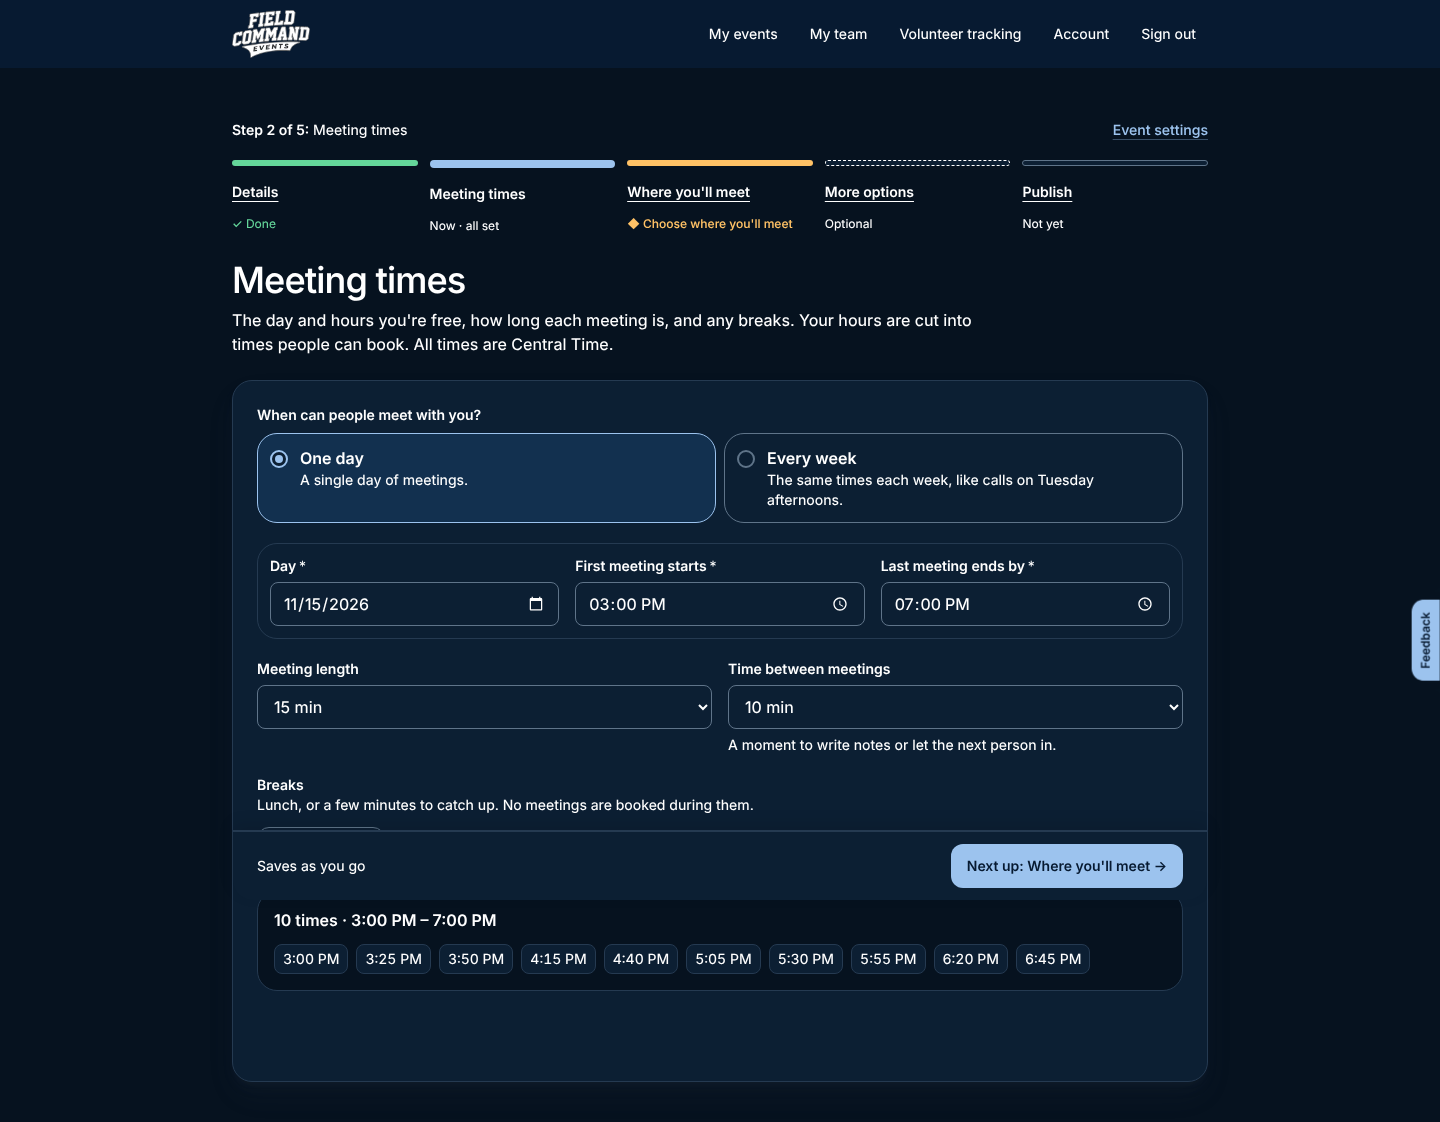
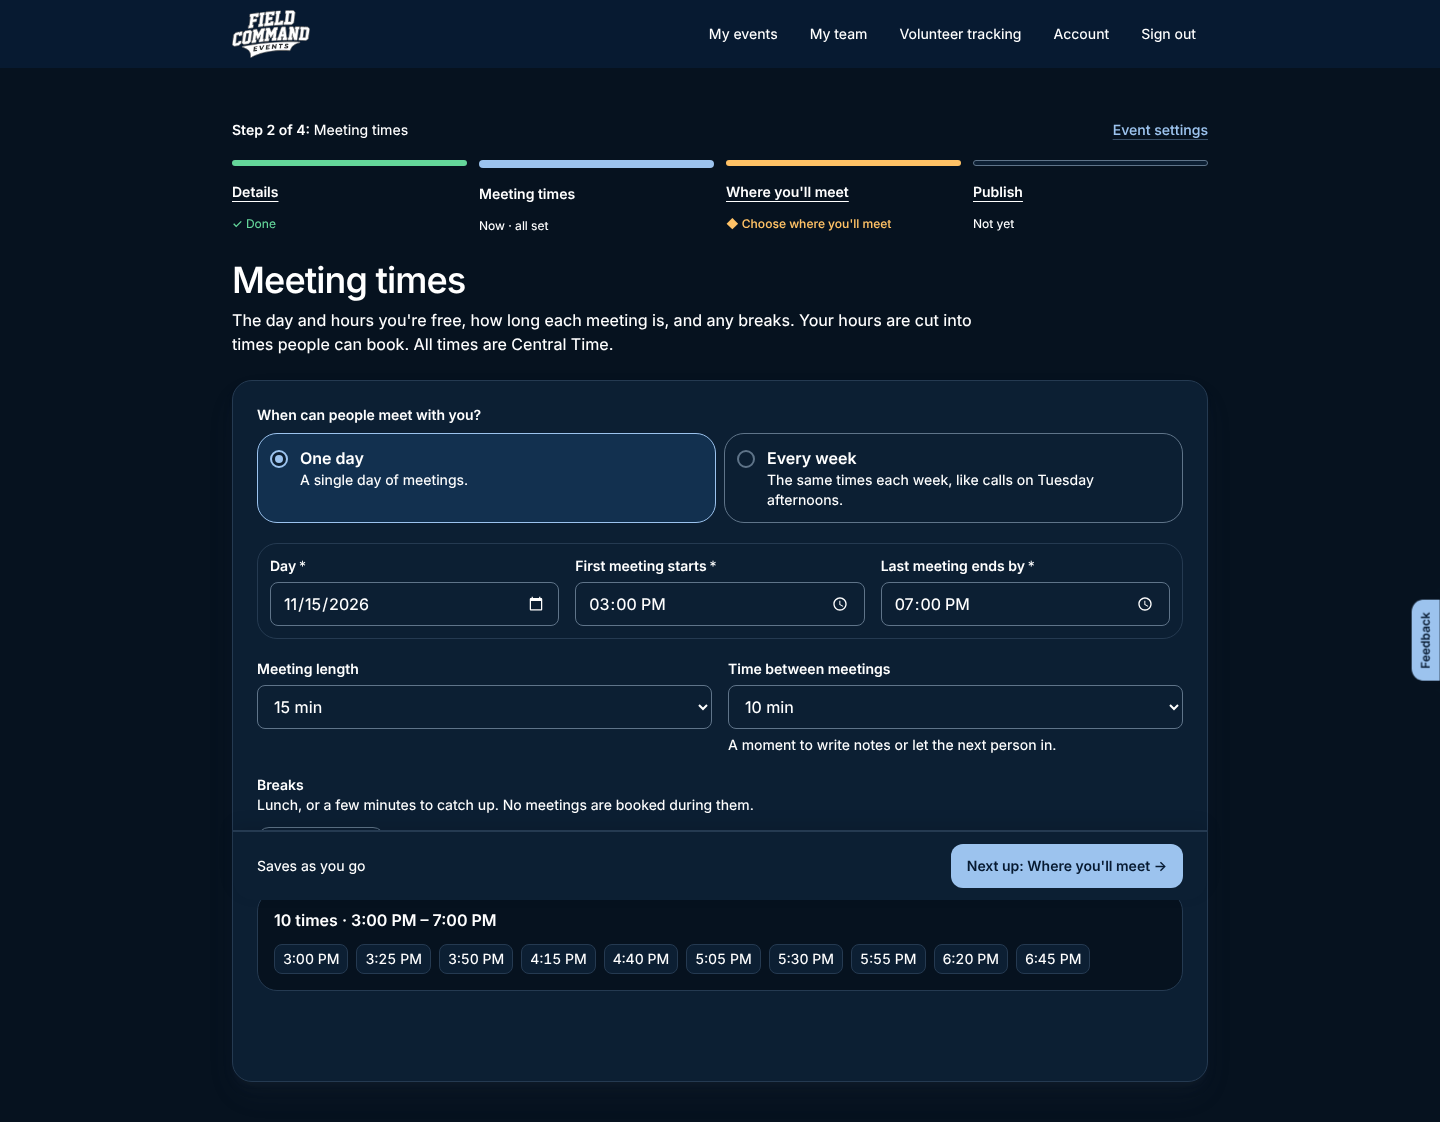
Meetings: the light check on the move, as the owner decided
- Weekly hours: the bar and step bar name exactly what's missing; blank dates say they're needed; the note gets its own line on phones
- One-day meetings: four steps, with the optional contact email on Publish; weekly hours keep More options
- A pointer from weekly times to days off; "school vacations" for days off; no empty status line at the bottom of cards
- Decisions logged; the setup pattern says a one-setting optional step goes on Publish

Claude-Session: https://claude.ai/code/session_015NaEPpF7tacknYvkWK5f8d

diff --git a/src/app/dashboard/events/[eventId]/conferences/conference-forms.tsx b/src/app/dashboard/events/[eventId]/conferences/conference-forms.tsx
@@ -299,6 +299,14 @@ function TimesForm({
   const short = openLeft !== null && openLeft < outside.length;
   const [choice, setChoice] = useState<"email" | "self" | null>(null);
   const picked = choice ?? (short ? "self" : "email");
+  // What's still missing before the times can save, named exactly (light check, 2026-11-09).
+  const missing = weekly
+    ? [!firstDay || !lastDay ? "your first and last day" : null, !groups.some((g) => g.days.length) ? "the days you meet" : null, groups.some((g) => !g.start || !g.end) ? "your hours" : null]
+    : [!day ? "your day" : null, !from || !to ? "your hours" : null];
+  const missingList = missing.filter((m): m is string => Boolean(m));
+  const missingNote = missingList.length
+    ? `Add ${missingList.length < 3 ? missingList.join(" and ") : `${missingList.slice(0, -1).join(", ")}, and ${missingList.at(-1)}`}`
+    : null;
   const changeGroup = (key: number, patch: Partial<GroupDraft>) => setGroups((gs) => gs.map((g) => (g.key === key ? { ...g, ...patch } : g)));
   const change = (key: number, patch: Partial<BreakDraft>) => setBreaks((bs) => bs.map((b) => (b.key === key ? { ...b, ...patch } : b)));
 
@@ -408,10 +416,11 @@ function TimesForm({
       ) : weekly ? (
         <div className="space-y-4">
           <div className="grid gap-4 sm:grid-cols-2">
-            <Field label="First day">
+            {/* Not red before anyone's had a go, but say these are what's holding up the save (light check, 2026-11-09). */}
+            <Field label="First day" hint={autosave && !firstDay ? "Needed before your times save." : undefined}>
               <Input type="date" name="weeklyFrom" required value={firstDay} onChange={(e) => setFirstDay(e.target.value)} />
             </Field>
-            <Field label="Last day" hint="For example, the last day of the semester.">
+            <Field label="Last day" hint={autosave && !lastDay ? "Needed before your times save. For example, the last day of the semester." : "For example, the last day of the semester."}>
               <Input type="date" name="weeklyTo" required min={firstDay} value={lastDay} onChange={(e) => setLastDay(e.target.value)} />
             </Field>
           </div>
@@ -613,6 +622,16 @@ function TimesForm({
       </div>
       )}
 
+      {/* Weekly hours in the setup steps: holidays and the booking window are a step away, so nobody forgets them. */}
+      {part === "basics" && weekly && (
+        <p className="text-sm text-muted">
+          Days off and how far ahead people book are in{" "}
+          <a href="options" className="font-medium text-brand underline underline-offset-4">
+            More options
+          </a>
+          .
+        </p>
+      )}
       {/* The times people can book: shown with the hours on Meeting times, not repeated in More options. */}
       {basics && (
       <div className="rounded-lg border border-border bg-background p-4">
@@ -704,7 +723,7 @@ function TimesForm({
         </div>
       )}
       {autosave ? (
-        <AutosaveBar status={auto.status} retry={auto.retry} next={autosave.next} todo={fresh && basics ? "Add your day and hours" : null} />
+        <AutosaveBar status={auto.status} retry={auto.retry} next={autosave.next} todo={fresh && basics ? missingNote : null} />
       ) : (
         <SaveCancel
           editing={editing}
@@ -1145,7 +1164,8 @@ function WaitingRoomGuide({ hours, meeting }: { hours: string; meeting?: boolean
 /** A small status line for a card that saves itself, inside a page whose bar is elsewhere. */
 function AutosaveStatus({ status, retry }: { status: ReturnType<typeof useAutosaveForm>["status"]; retry: () => void }) {
   return (
-    <p className="min-h-6 text-sm" role="status">
+    // An empty line takes no room: the card ends with its last field until there's something to say.
+    <p className="text-sm empty:hidden" role="status">
       {status.kind === "failed" ? (
         <span className="font-semibold text-danger">
           <span aria-hidden>▲ </span>Not saved. {status.error}{" "}

diff --git a/src/app/dashboard/events/[eventId]/page.tsx b/src/app/dashboard/events/[eventId]/page.tsx
@@ -45,6 +45,8 @@ import { bandRegistrationMissing, publishEffects, setupChecklist, twoWeeksBefore
 import { volunteerTotals } from "@/lib/volunteer-totals";
 import { opensLater, registrationIsOpen } from "@/lib/bands";
 import { SetupGuide } from "@/components/setup-guide";
+import { MeetingContactForm } from "./conferences/conference-forms";
+import { saveMeetingContact } from "./conferences/actions";
 import { DayRail } from "@/components/event-day-nav";
 import { loadDayActions } from "@/lib/event-day-actions";
 import { SavedBy } from "@/components/saved-by";
@@ -981,7 +983,13 @@ export default async function EventPage({ params, searchParams }: PageProps<"/da
     ) : null;
 
   // Before publishing: what publishing does, and the button. (Once live, unpublishing is in event settings.)
-  const publish = setup && checklist && !published ? <PublishPanel facts={setup} remaining={checklist.remaining} previewHref={conferenceHere ? `/e/${event.slug}/book` : `/e/${event.slug}/volunteer`} /> : null;
+  const publish = setup && checklist && !published ? <PublishPanel
+        facts={setup}
+        remaining={checklist.remaining}
+        previewHref={conferenceHere ? `/e/${event.slug}/book` : `/e/${event.slug}/volunteer`}
+        // A one-day meetings event's optional contact email lives here (it has no More options step: owner, 2026-11-09).
+        contact={conferenceHere && access.isHost && conference?.schedule !== "weekly" ? { initial: conference?.contact_email ?? null } : undefined}
+      /> : null;
 
   // Still setting up: the one thing to do next, in the main column too.
   const nextUpStep = checklist && !published ? (checklist.inProgress ?? checklist.next) : null;
@@ -1203,11 +1211,14 @@ function PublishPanel({
   facts,
   remaining,
   previewHref,
+  contact,
 }: {
   facts: SetupFacts;
   remaining: ReturnType<typeof setupChecklist>["remaining"];
   /** A volunteer event's sign-up page, as the team previews it. */
   previewHref: string;
+  /** A one-day meetings event: its optional contact email for when every time is booked. */
+  contact?: { initial: string | null };
 }) {
   // The empty jobs are named in their own box below, so the "one more step" line skips them.
   const others = (facts.emptyJobs ?? []).length ? remaining.filter((r) => r.id !== "shifts") : remaining;
@@ -1302,6 +1313,13 @@ function PublishPanel({
         <p className="mt-2 flex items-center gap-2 text-sm font-medium text-success">
           <span aria-hidden>✓</span> Everything your event needs is set up.
         </p>
+      )}
+      {contact && (
+        <div className="mt-4 border-t border-border pt-4">
+          <p className="text-sm font-semibold">When every time is booked (optional)</p>
+          <p className="mt-1 mb-3 text-sm text-muted">What people see if they open your link and nothing is left.</p>
+          <MeetingContactForm action={saveMeetingContact.bind(null, facts.eventId)} initial={contact.initial} autosave />
+        </div>
       )}
       <p className="mt-4 text-sm font-semibold">When you publish:</p>
       <ul className="mt-2 space-y-1.5 text-sm text-muted">

diff --git a/src/app/dashboard/events/[eventId]/conferences/options/page.tsx b/src/app/dashboard/events/[eventId]/conferences/options/page.tsx
@@ -20,6 +20,8 @@ export default async function MeetingOptionsStep({ params }: PageProps<"/dashboa
   const s = await loadMeetingSetup(eventId);
   // Published, or unpublished with people still booked: changes wait for Save, on Meeting setup.
   if (s.published || s.booked > 0) redirect(`${s.base}?tab=times`);
+  // One day: no More options step; its contact email is on Publish (owner, 2026-11-09).
+  if (!s.weekly) redirect(`/dashboard/events/${eventId}#publish`);
   const publishHref = `/dashboard/events/${eventId}#publish`;
   return (
     <StepPage
@@ -42,14 +44,12 @@ export default async function MeetingOptionsStep({ params }: PageProps<"/dashboa
           action={saveMeetingContact.bind(null, eventId)}
           initial={s.settings.contact_email ?? null}
           autosave
-          // One day: this is the step's only form, so it carries the step's bar (weekly hours have theirs below).
-          next={s.weekly ? undefined : { href: publishHref, label: "Next up: Publish" }}
         />
       </Card>
       {s.weekly && (
         <Card>
           <h2 className="text-lg font-semibold">Days off</h2>
-          <p className="mt-1 mb-4 text-sm text-muted">Holidays, trips, or a break. No meetings are booked on them. Leave Through blank for a single day.</p>
+          <p className="mt-1 mb-4 text-sm text-muted">Holidays, trips, or school vacations. No meetings are booked on them. Leave Through blank for a single day.</p>
           <DaysOffForm action={saveDaysOff.bind(null, eventId)} closedDates={s.settings.closed_dates} meeting={s.meeting} autosave />
         </Card>
       )}

diff --git a/src/components/autosave.tsx b/src/components/autosave.tsx
@@ -84,7 +84,8 @@ export function AutosaveBar({
 }) {
   return (
     <div className="sticky bottom-[var(--day-bar,0px)] z-10 -mx-4 -mb-4 flex min-h-16 flex-wrap items-center gap-x-3 gap-y-2 rounded-b-lg border-t-2 border-border bg-surface px-4 py-3 shadow-[0_-6px_16px_rgb(0_0_0/0.10)] sm:-mx-6 sm:-mb-6 sm:px-6">
-      <div className="min-w-0 flex-1 text-sm" role="status">
+      {/* A long "not saved yet" note takes its own line on phones, above the button, instead of a narrow column. */}
+      <div className={`min-w-0 flex-1 text-sm ${todo || status.kind === "incomplete" ? "basis-full sm:basis-auto" : ""}`} role="status">
         {status.kind === "failed" ? (
           <p className="flex flex-wrap items-center gap-x-2 font-semibold text-danger">
             <span>
@@ -121,7 +122,7 @@ export function AutosaveBar({
       {next && (
         <Link
           href={next.href}
-          className={`inline-flex min-h-11 items-center rounded-md px-4 text-sm font-semibold ${
+          className={`ml-auto inline-flex min-h-11 items-center rounded-md px-4 text-sm font-semibold ${
             todo && status.kind !== "saved" ? "border border-field-border bg-surface hover:bg-background" : "bg-brand text-brand-foreground hover:bg-brand-hover"
           }`}
         >

diff --git a/src/lib/setup-facts.ts b/src/lib/setup-facts.ts
@@ -88,6 +88,7 @@ export async function loadSetupFacts(eventId: string): Promise<SetupFacts | null
     rooms,
     scheduleSlots,
     conferenceTimesSaved: Boolean(conference?.times_saved_at),
+    conferenceWeekly: conference?.schedule === "weekly",
     booths,
     parentRegistrationOpen: event.parent_registration_open,
     parentClosesAt: Boolean(event.parent_registration_closes_at),
@@ -95,7 +96,9 @@ export async function loadSetupFacts(eventId: string): Promise<SetupFacts | null
     // The setup steps split it: what Meeting times and Where you'll meet each still need.
     conferenceTimesMissing: conferenceHere
       ? !conference?.times_saved_at
-        ? "Add your hours"
+        ? conference?.schedule === "weekly"
+          ? "Add your weekly hours and dates"
+          : "Add your day and hours"
         : conference.schedule === "weekly" && !conference.weekly_hours.length
           ? "Add your weekly hours"
           : null

diff --git a/src/app/dashboard/events/[eventId]/conferences/place/page.tsx b/src/app/dashboard/events/[eventId]/conferences/place/page.tsx
@@ -32,7 +32,12 @@ export default async function MeetingPlaceStep({ params }: PageProps<"/dashboard
           meeting={s.meeting}
           lastRoom={s.settings.room ? null : await lastRoom(s.supabase, s.event.organization_id, eventId)}
           saved={!s.placeTodo}
-          autosave={{ next: { href: `${s.base}/options`, label: "Next up: More options" } }}
+          autosave={{
+            next: s.weekly
+              ? { href: `${s.base}/options`, label: "Next up: More options" }
+              : // One day: no More options step, so straight on to Publish (owner, 2026-11-09).
+                { href: `/dashboard/events/${eventId}#publish`, label: "Next up: Publish" },
+          }}
         />
       </Card>
     </StepPage>

diff --git a/src/app/dashboard/events/[eventId]/conferences/page.tsx b/src/app/dashboard/events/[eventId]/conferences/page.tsx
@@ -274,7 +274,7 @@ export default async function ConferencesPage({ params, searchParams }: PageProp
               <>
                 <h2 className="text-lg font-semibold">Days off</h2>
                 <p className="mt-1 mb-4 text-sm text-muted">
-                  Optional. Holidays, field trips, or a break like winter break. No meetings are booked on them. Leave Through blank for a single day.
+                  Optional. Holidays, field trips, or school vacations. No meetings are booked on them. Leave Through blank for a single day.
                 </p>
                 <DaysOffForm action={saveDaysOff.bind(null, eventId)} closedDates={settings.closed_dates} meeting={meeting} />
               </>

diff --git a/src/components/volunteer-steps.tsx b/src/components/volunteer-steps.tsx
@@ -27,7 +27,7 @@ export function SetupSteps({
   const pending = usePendingCounts();
   const unsaved = pending.failed + pending.incomplete + pending.unadded > 0;
   const base = `/dashboard/events/${eventId}`;
-  const steps = STEPS[kind];
+  const steps = STEPS[kind].filter((s) => !facts.skip?.includes(s.key));
   // Event settings (Details with ?section=) is a settings page, not the Details step: it has its own list.
   const query = useSearchParams();
   // The same rule as the page: any section asked for, by ?section= or an old ?step= link.

diff --git a/src/app/dashboard/events/[eventId]/layout.tsx b/src/app/dashboard/events/[eventId]/layout.tsx
@@ -75,5 +75,7 @@ function meetingSteps(f: SetupFacts): SetupStepFacts {
     count: null,
     done: { times: !times, place: !place, options: false },
     notes: { times, place: place?.replace(/\.$/, "") ?? null, options: "Optional" },
+    // One day: no More options step; its one setting (the contact email) is on Publish (owner, 2026-11-09).
+    skip: f.conferenceWeekly ? undefined : ["options"],
   };
 }

diff --git a/src/lib/setup-checklist.ts b/src/lib/setup-checklist.ts
@@ -64,6 +64,8 @@ export type SetupFacts = {
   scheduleSlots: number;
   /** Conferences: meeting times saved (the place may still be missing). */
   conferenceTimesSaved?: boolean;
+  /** Meetings with weekly hours: their More options step (days off, booking window). One-day events have none. */
+  conferenceWeekly?: boolean;
   booths: number;
   parentRegistrationOpen: boolean;
   parentClosesAt: boolean;

diff --git a/src/lib/setup-steps.ts b/src/lib/setup-steps.ts
@@ -50,5 +50,7 @@ export type SetupStepFacts = {
   /** Steps with more than one middle step (meetings): each step's own done and note, by key. */
   done?: Partial<Record<string, boolean>>;
   notes?: Partial<Record<string, string | null>>;
+  /** Steps this event doesn't have (a one-day meetings event has no More options: owner, 2026-11-09). */
+  skip?: string[];
 };
 

diff --git a/docs/design-decisions/2026-11-08-meetings-steps.md b/docs/design-decisions/2026-11-08-meetings-steps.md
@@ -53,3 +53,15 @@ meeting times page." This changes the 2026-11-08 choice to keep them in the opti
 |---|---|---|
 | Time between meetings and breaks | Owner's decision | On Meeting times, with the hours and meeting length, saved with them |
 | More options | Follows from it | The contact email; with weekly hours, days off and how far ahead people book |
+
+### Light check on the move (2026-11-09)
+
+UX Designer, UI Designer, usability consultant on `docs/design-reviews/2026-11-09-breaks-on-meeting-times/`.
+
+| # | Finding | Severity | Decision | Notes |
+|---|---|---|---|---|
+| 1 | Weekly hours: the bar said "Add your day and hours" when only the dates were missing, so nothing saved and the reason was wrong | 3 | Take the advice | The bar and step bar name exactly what's missing ("Add your first and last day"); blank date boxes say they're needed to save; on phones the note has its own line above the button |
+| 2 | One-day More options was a whole step for one optional box | 2 | Owner: fold it into Publish | One-day meetings have four steps; the contact email is an optional box on the Publish step. Weekly hours keep More options (days off, how far ahead people book) |
+| 3 | Days off and the booking window are a step away from the weekly times | 2 | Take the advice | A line under the weekly times points to More options |
+| 4 | "A break" used for days off and for breaks | 2 | Take the advice | Days off: "Holidays, trips, or school vacations" |
+| 5 | Empty space at the bottom of cards | 2 | Take the advice | The "Saved" line takes no room until there's something to say |
